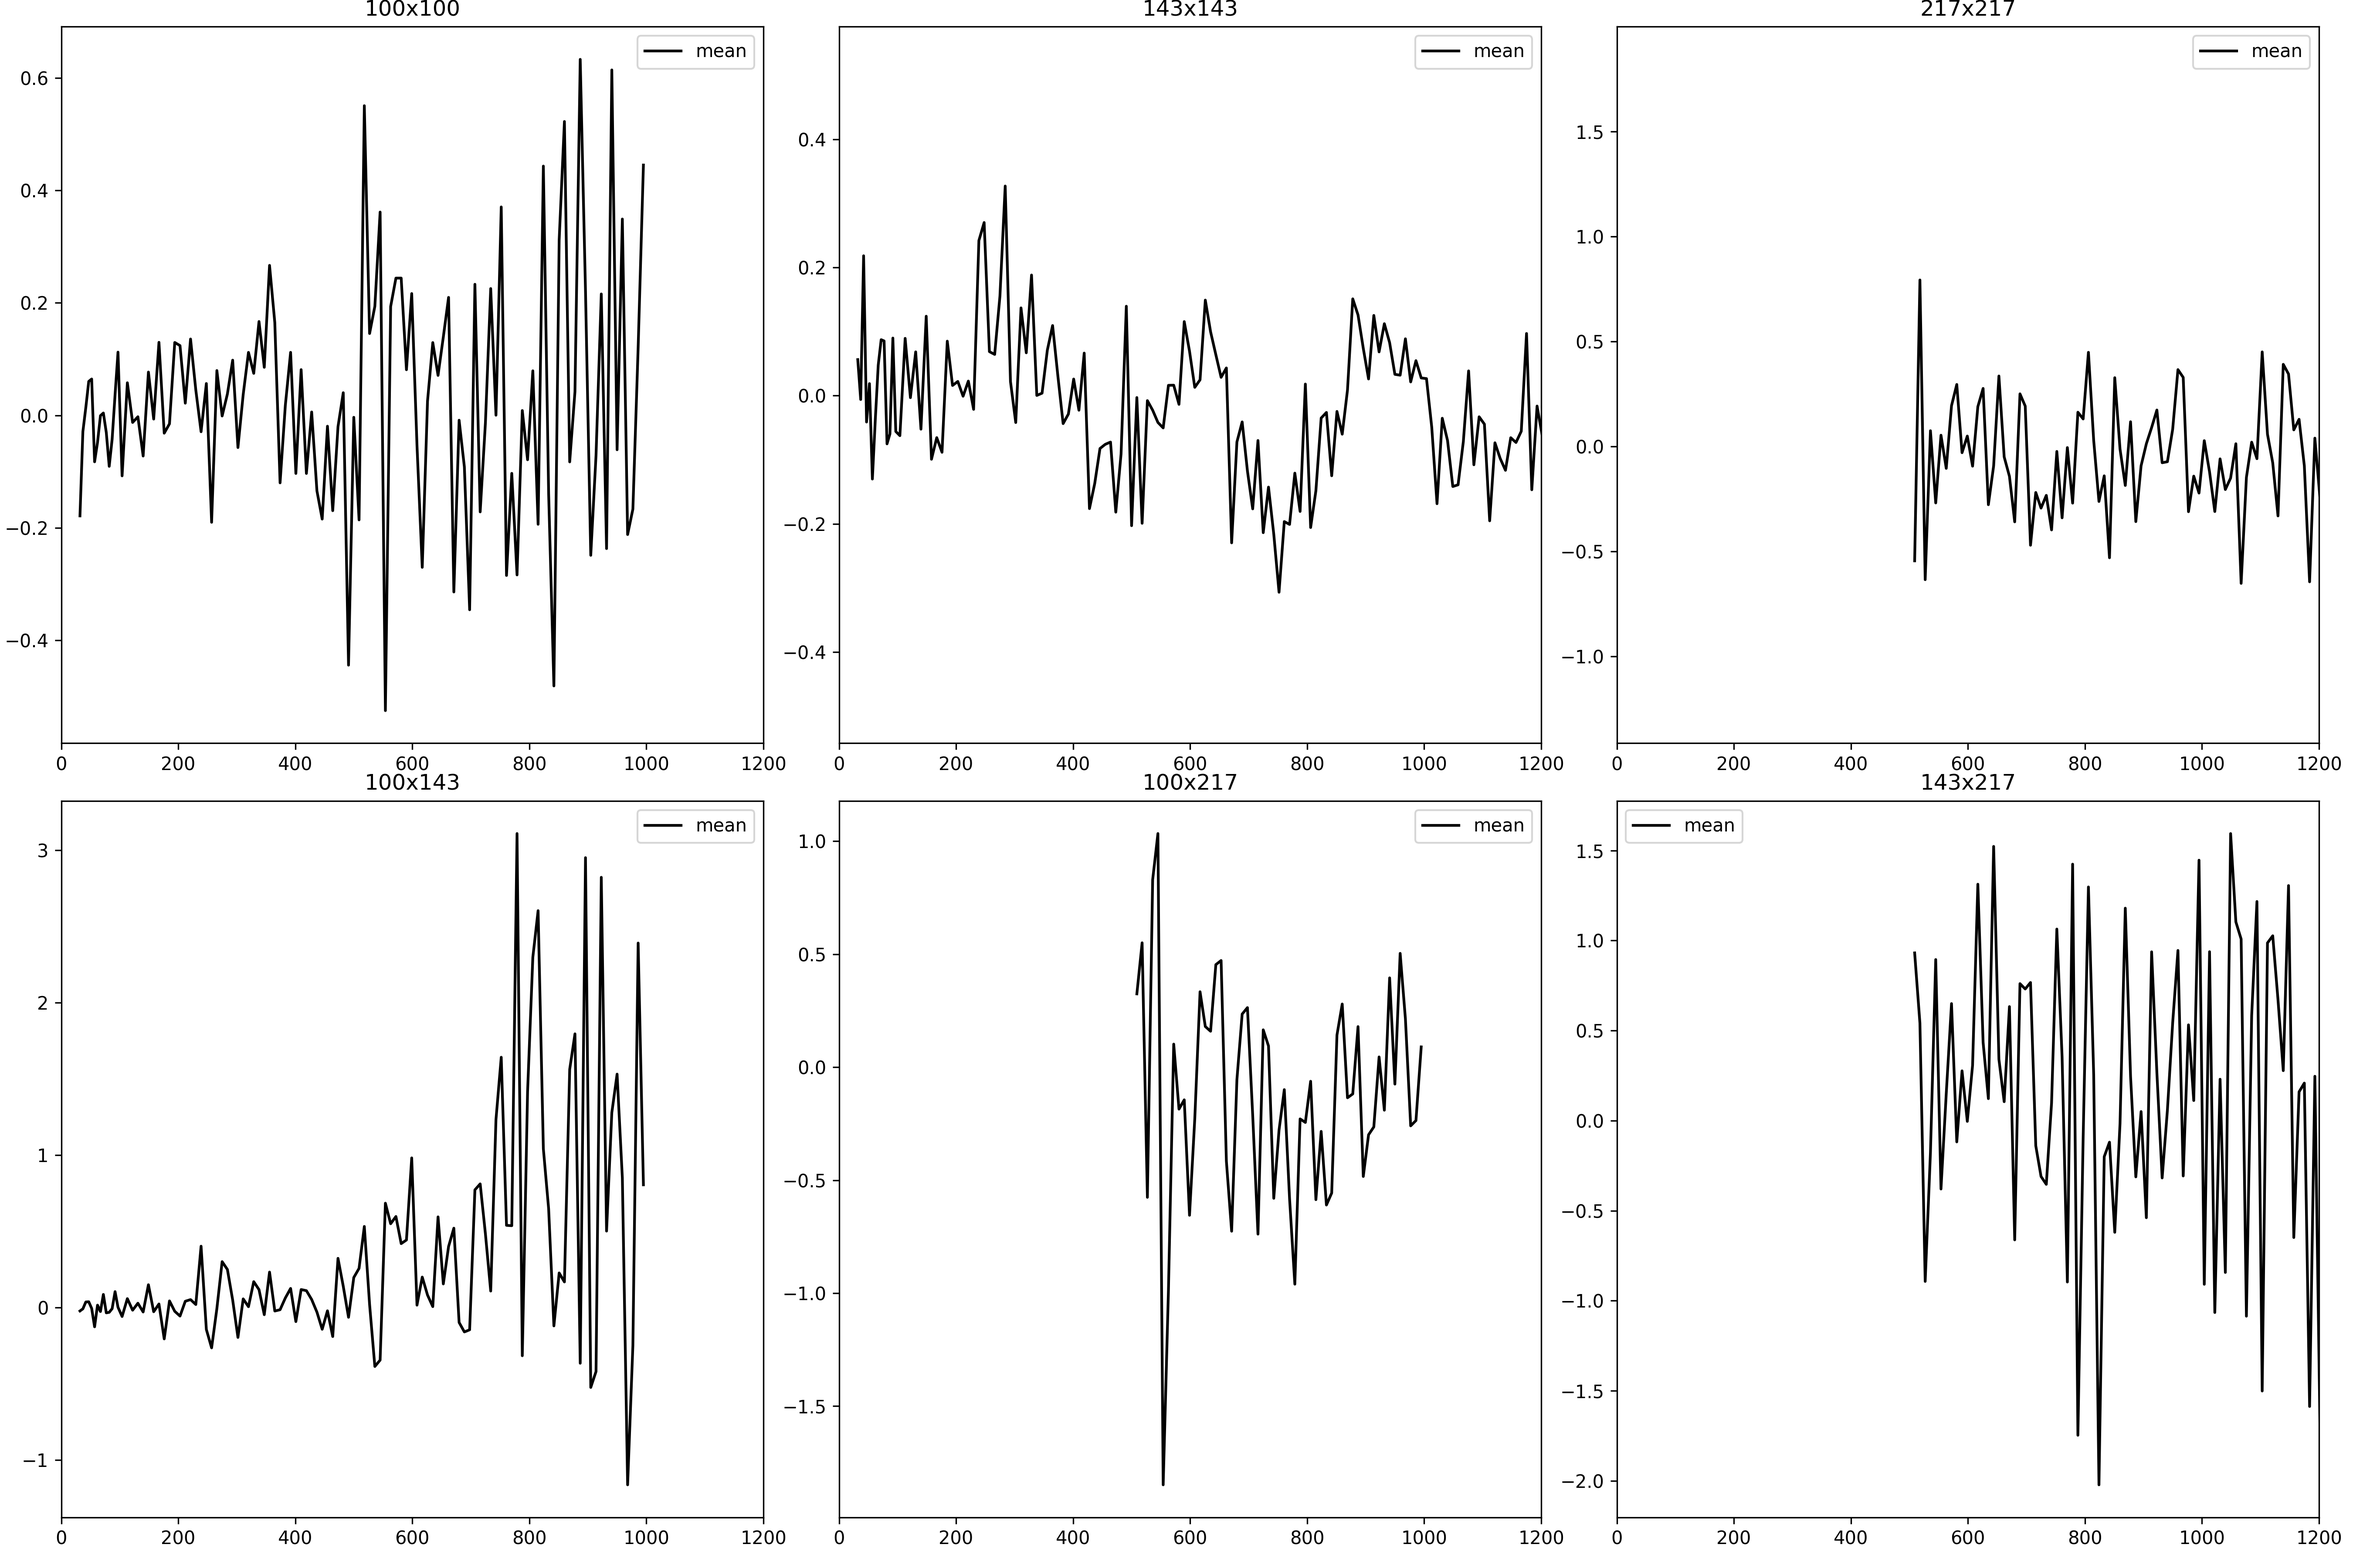
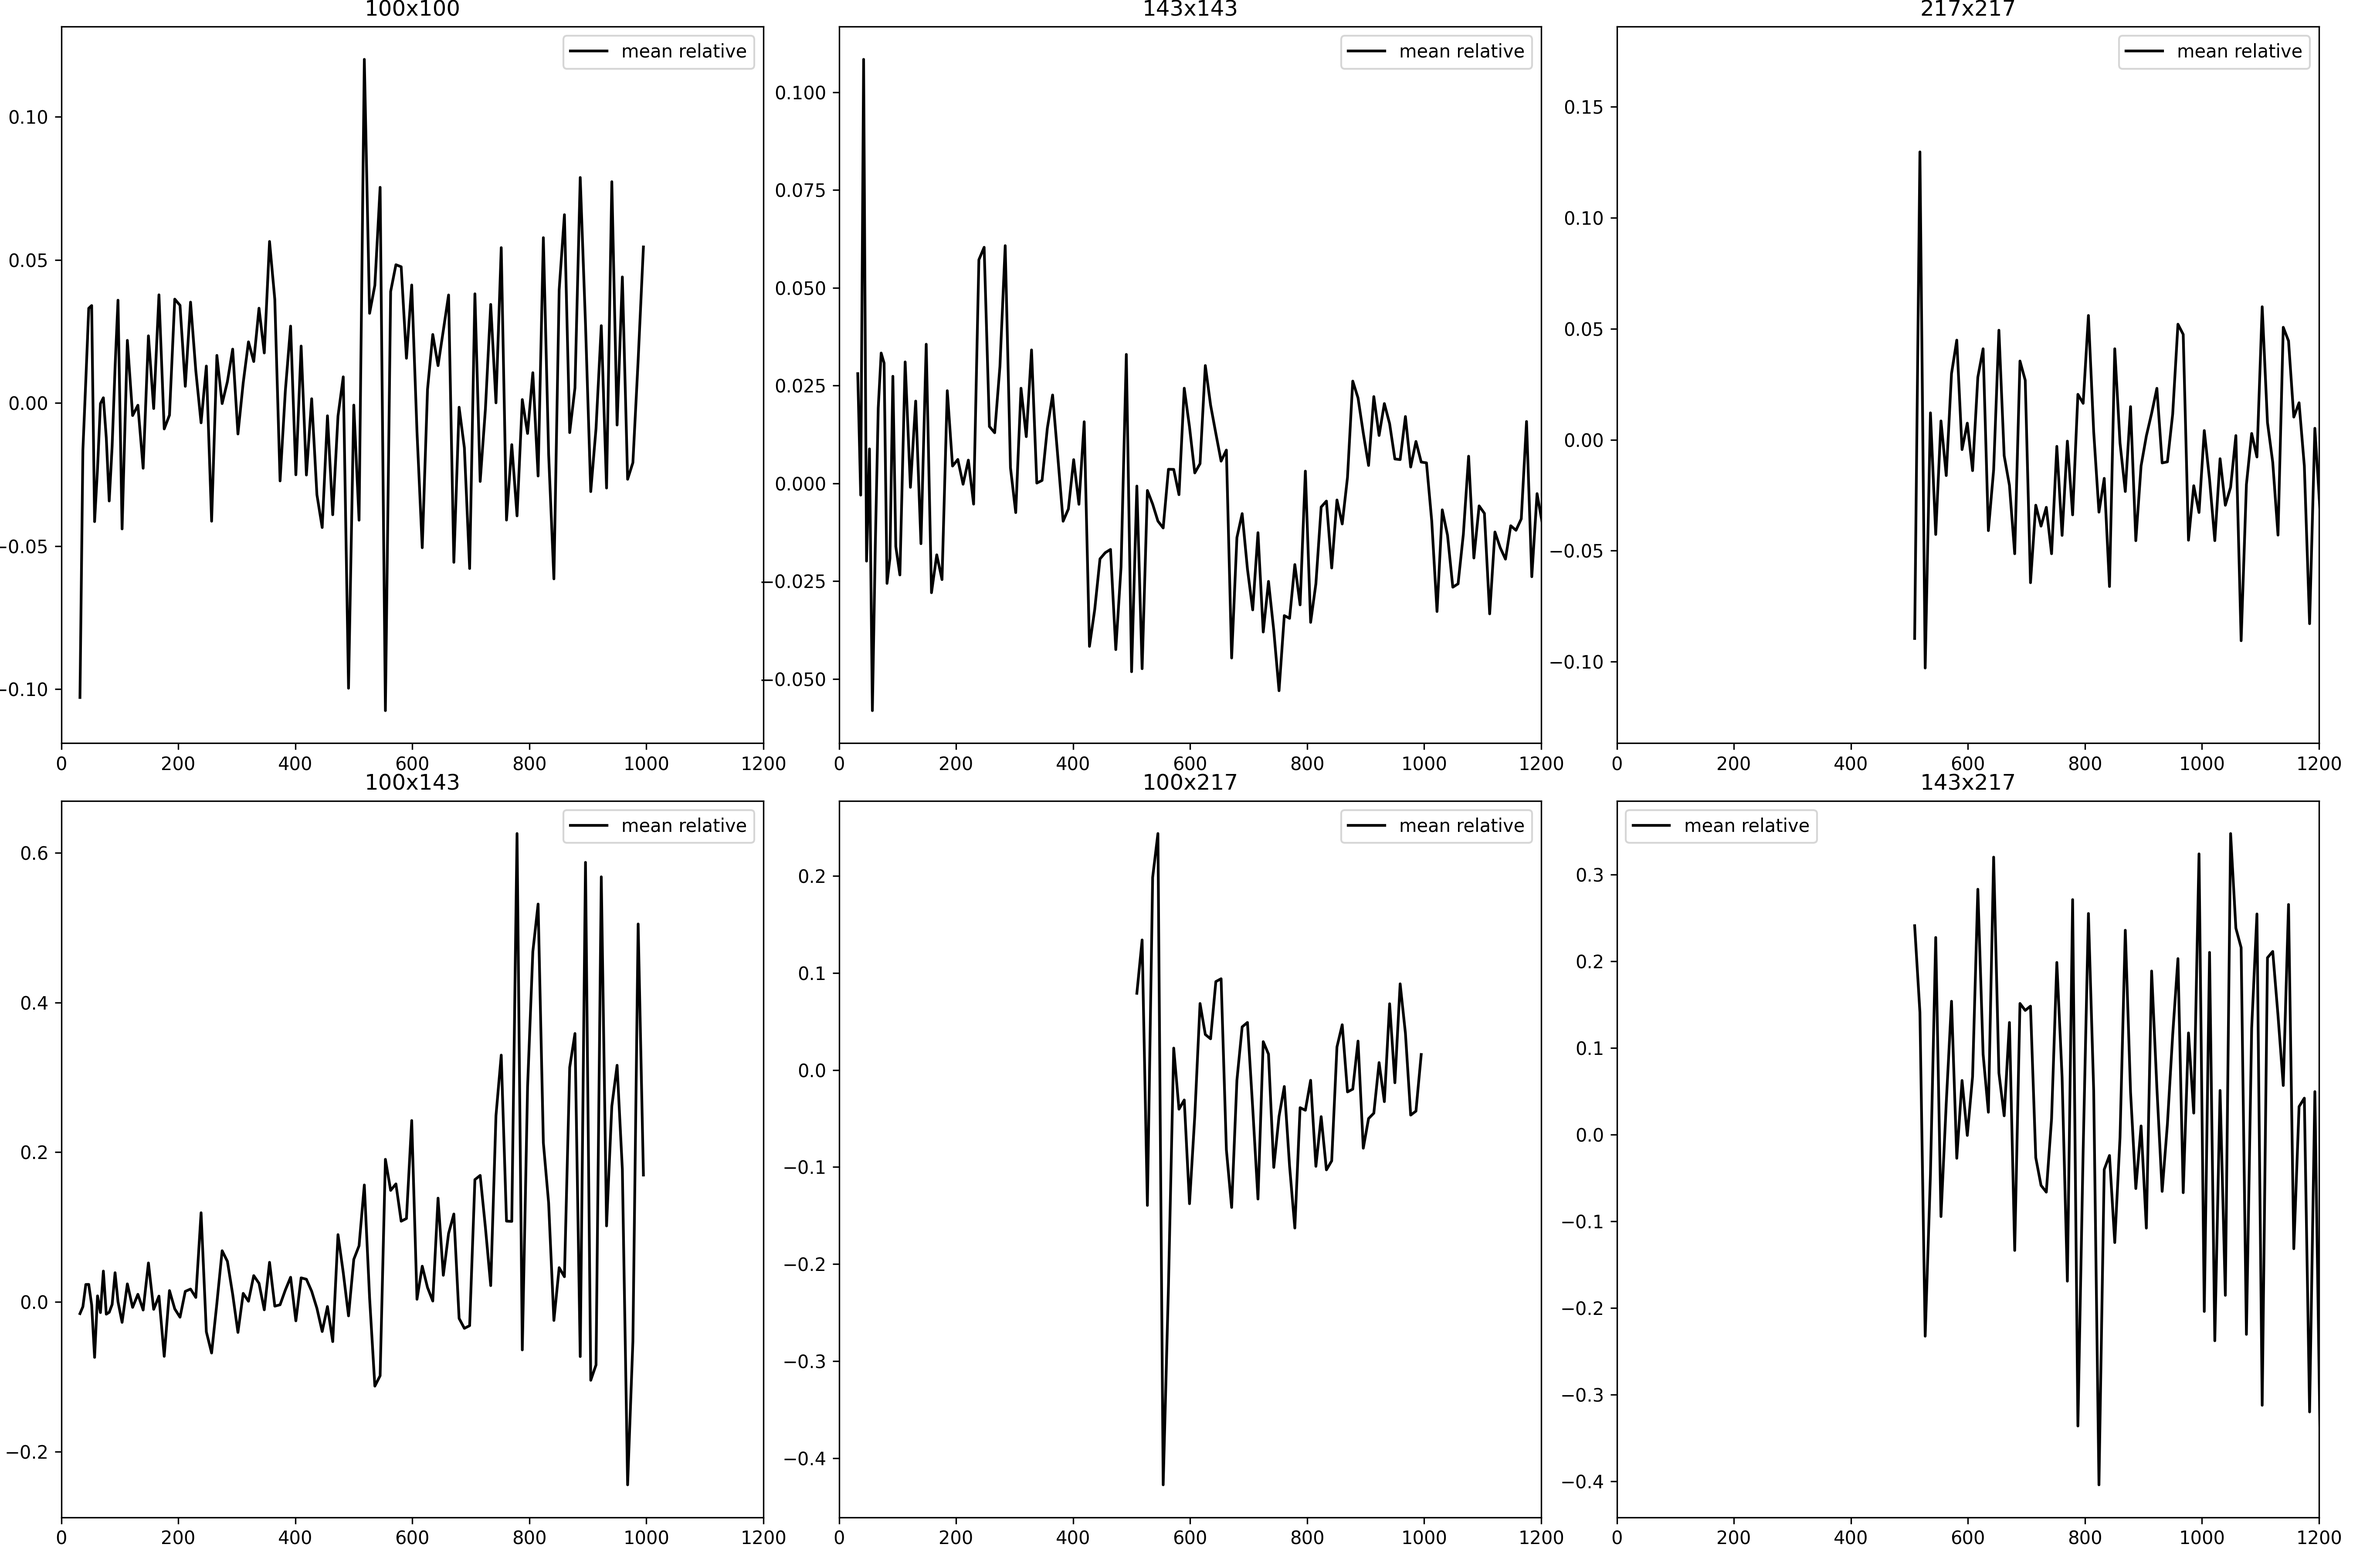
New figures

diff --git a/Planck/planck_spin2_crossspectra.py b/Planck/planck_spin2_crossspectra.py
@@ -17,13 +17,19 @@ def fac(ls):
 
 spec_keys_pspy = ["TT", "TE", "TB", "ET", "BT", "EE", "EB", "BE", "BB"]
 
-comp_bool = True
+plot_bool = False
+comp_bool = False
+plot_err_bool = False
+plot_err_comp = True
 
-date_float = "0527_0501"
+date_float = "0527_0600"
 
 cross_spec_key = 'TT'
 
-filename = "Planck/Figures/Planck_all_band_%s_%s%s.png" % (cross_spec_key, date_float, "_comp" if comp_bool else "")
+filename = "Planck/Figures/Planck_all_band_%s_%s%s_err_comp.png" % (cross_spec_key, date_float, "_comp" if comp_bool else "")
+
+binning_file = "data/spectra/planck/binning/bin_planck.dat"
+bin_lo, bin_hi, l_bin, bin_size = pspy_utils.read_binning_file(binning_file, lmax=3000)
 
 spec_xlims = {  'TT': (0, 3000),
                 'EE': (0, 1500),
@@ -45,7 +51,6 @@ spec_ylims_res = {  'TT': None,
                 'ET': (-200, 200),
                 'EB': (-10, 10),
                 'BB': None}
-
 
 BAND_1 = "100"
 BAND_2 = "143"
@@ -81,18 +86,21 @@ for i, (BAND_1, BAND_2) in tqdm(enumerate(BAND_iter)):
         Dls_sum[cross_spec_key] += Dls_21[key]
 
     Dls_sum[cross_spec_key] /= 4
+    
+    if plot_err_bool or plot_err_comp:
+        error_dict = get_cosmic_variance(Dls_sum, ls=lb, fsky=0.65)
 
     if comp_bool:
         try:
             comp_indices = [i for i, value in enumerate(lb) if value in set(data_Planck[0])]
             Dls_comp = [Dls_sum[cross_spec_key][i] for i in comp_indices]
-            Dls_res = Dls_comp - (data_Planck[1][:len(Dls_comp)] * fac(data_Planck[0][:len(Dls_comp)])) # / (data_Planck[key][2] * fac(data_Planck[key][0])
-            axs[row, col].plot(data_Planck[0][:len(Dls_comp)], Dls_res, color='black', label="mean")
+            Dls_res = (Dls_comp - (data_Planck[1][:len(Dls_comp)] * fac(data_Planck[0][:len(Dls_comp)]))) / (data_Planck[2][:len(Dls_comp)] * fac(data_Planck[0][:len(Dls_comp)]))
+            axs[row, col].plot(data_Planck[0][:len(Dls_comp)], Dls_res, color='black', label="mean relative")
             axs[row, col].set_ylim(spec_ylims_res[cross_spec_key])
         except:
             pass
         
-    else:
+    if plot_bool:
         for key in [cross_spec_key, cross_spec_key[::-1]]:
             axs[row, col].plot(lb, Dls_12[key], alpha=0.5, label="%s_%sx%s" % (key, BAND_1, BAND_2), linewidth=1)
             if BAND_1 != BAND_2:
@@ -103,6 +111,43 @@ for i, (BAND_1, BAND_2) in tqdm(enumerate(BAND_iter)):
         except:
             pass
         axs[row, col].set_ylim(spec_ylims[cross_spec_key])
+
+        if plot_err_bool:
+            bin_indices = [i for i, value in enumerate(l_bin) if value in set(lb)]
+            bin_size = [bin_size[i] for i in bin_indices]
+            axs[row, col].fill_between(
+                lb,
+                Dls_sum[key] - error_dict[key] / bin_size,
+                Dls_sum[key] + error_dict[key] / bin_size,
+                alpha=0.3,
+                color="grey",
+                label="Effective noise",
+                zorder=-10,
+            )
+            
+    if plot_err_comp:
+        bin_indices = [i for i, value in enumerate(l_bin) if value in set(lb)]
+        bin_size = [bin_size[i] for i in bin_indices]
+        axs[row, col].plot(
+            lb,
+            error_dict[key] / bin_size,
+            alpha=1,
+            color="black",
+            label="Effective noise",
+        )
+        axs[row, col].semilogy()
+        try:
+            axs[row, col].plot(
+                data_Planck[0],
+                data_Planck[2]*fac(data_Planck[0]),
+                alpha=1,
+                color="red",
+                label="Planck noise",
+            )
+        except:
+            pass
+
+
     axs[row, col].set_xlim(spec_xlims[cross_spec_key])
     axs[row, col].legend()
 

diff --git a/Planck/planck_spin2_crossfreq.py b/Planck/planck_spin2_crossfreq.py
@@ -36,6 +36,9 @@ comp_plot_bool = False
 binned_mcm = False
 adapt_lmax = False
 start_at_2_bool = False
+get_fskys = True
+
+niter = 3
 
 LMAX= 3000
 
@@ -126,14 +129,20 @@ for BAND_1, BAND_2 in BAND_iter:
     mask_T_2 = so_map.read_map(
         "data/maps/COM_Mask_Likelihood-temperature-%s-hm2_2048_R3.00.fits" % BAND_2
     )
+    if get_fskys:
+        print(so_window.get_survey_solid_angle(mask_T_1) / (4 * pi))
+        print(so_window.get_survey_solid_angle(mask_T_2) / (4 * pi))
+        print(so_window.get_survey_solid_angle(mask_pol_1) / (4 * pi))
+        print(so_window.get_survey_solid_angle(mask_pol_1) / (4 * pi))
+        continue
     
     ### Substract monopole and dipole
     map_1.subtract_mono_dipole(mask=(mask_T_1, mask_pol_1))
     map_2.subtract_mono_dipole(mask=(mask_T_2, mask_pol_2))
     
     ### Compute spectra from masked maps
-    almsList_1 = sph_tools.get_alms(map_1, (mask_T_1, mask_pol_1), niter=0, lmax=lmax_iter)
-    almsList_2 = sph_tools.get_alms(map_2, (mask_T_2, mask_pol_2), niter=0, lmax=lmax_iter)
+    almsList_1 = sph_tools.get_alms(map_1, (mask_T_1, mask_pol_1), niter=niter, lmax=lmax_iter)
+    almsList_2 = sph_tools.get_alms(map_2, (mask_T_2, mask_pol_2), niter=niter, lmax=lmax_iter)
     ls_12, cls_12 = so_spectra.get_spectra(almsList_1, almsList_2, spectra=spec_keys_pspy)
 
     ### Beam correction
@@ -160,7 +169,7 @@ for BAND_1, BAND_2 in BAND_iter:
     bls_pol_2 = data_beam_pol_2[1, :lmax_iter+2]
     
     ### Mode coupling matrix
-    mbb_inv, Bbl = so_mcm.mcm_and_bbl_spin0and2((mask_T_1, mask_pol_1), binning_file, lmax=lmax_iter, niter=0, type='Dl',
+    mbb_inv, Bbl = so_mcm.mcm_and_bbl_spin0and2((mask_T_1, mask_pol_1), binning_file, lmax=lmax_iter, niter=niter, type='Dl',
                                                 win2=(mask_T_2, mask_pol_2), binned_mcm=binned_mcm, bl1=(bls_T_1, bls_pol_1),
                                                 bl2=(bls_T_2, bls_pol_2))
 
